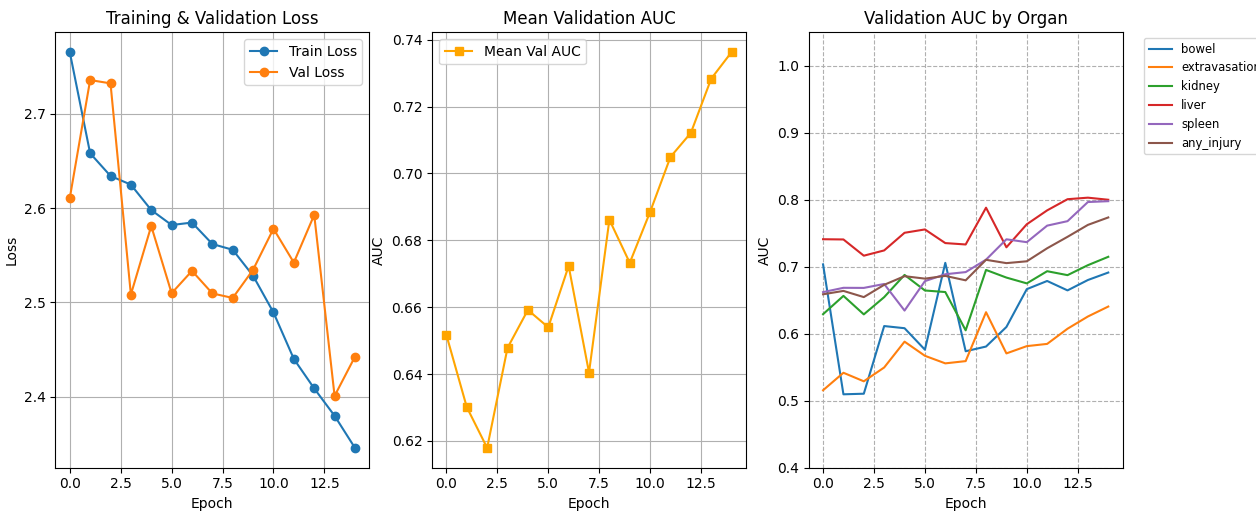
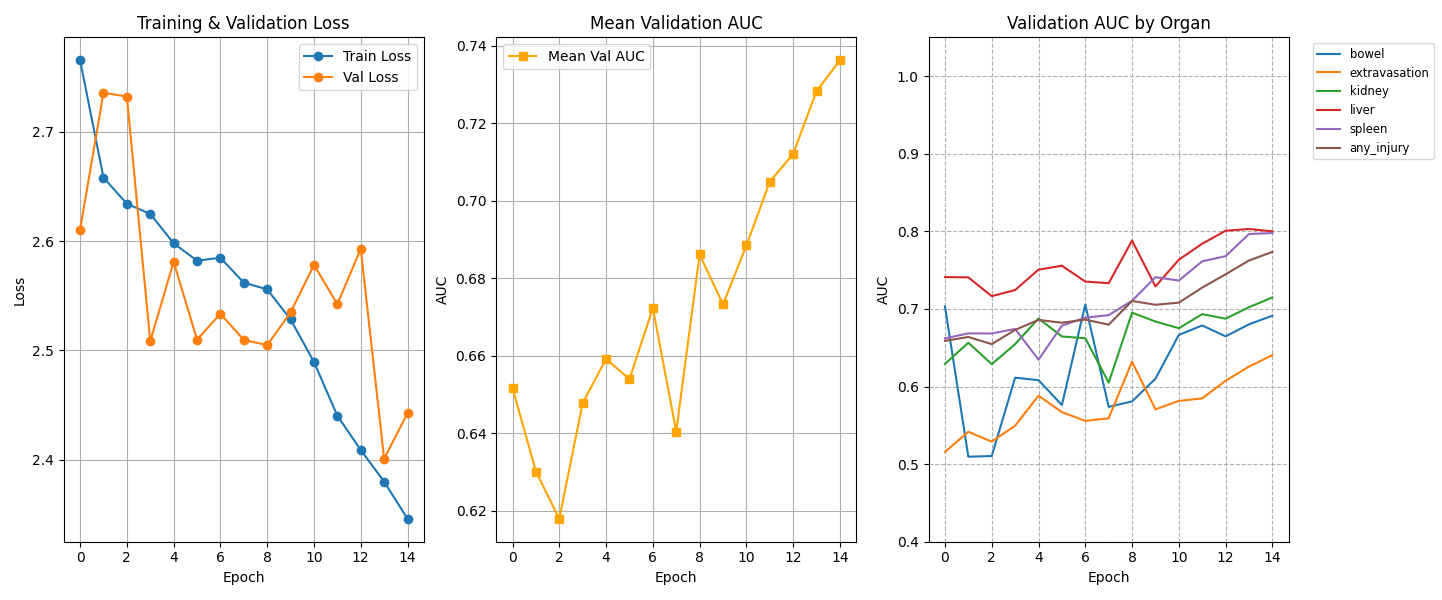
v6 추가

diff --git a/ct_show_history.py b/ct_show_history.py
@@ -2,7 +2,7 @@ import pickle
 import matplotlib.pyplot as plt
 
 # 파일 경로
-file_path = 'monai_ct_convnext_v5_1.pkl'
+file_path = 'monai_ct_convnext_v6_3.pkl'
 
 
 # 'rb' (Read Binary) 모드로 읽어야 합니다.

diff --git a/README.md b/README.md
@@ -141,3 +141,30 @@
     - 학습 코드 5 : ct-convnext-base-s128_5_2.ipynb
         - 15에포크 부터 이어서 처리
         ![alt text](ct_result_history_5_2.png)
+
+
+    - 학습 코드 6 : ct-convnext-base-s128_6.ipynb
+        - 가중치 변경
+            ```
+            criterion_dict = {
+                'bowel': nn.CrossEntropyLoss(weight=torch.tensor([1.0, 10.0]).to(DEVICE), label_smoothing=0.05),
+                'extravasation': nn.CrossEntropyLoss(weight=torch.tensor([1.0, 10.0]).to(DEVICE), label_smoothing=0.05),
+                'any_injury': nn.CrossEntropyLoss(weight=torch.tensor([1.0, 10.0]).to(DEVICE), label_smoothing=0.05),
+                'liver': nn.CrossEntropyLoss(weight=torch.tensor([1.0, 3.0, 5.0]).to(DEVICE), label_smoothing=0.05),
+                'kidney': nn.CrossEntropyLoss(weight=torch.tensor([1.0, 3.0, 5.0]).to(DEVICE), label_smoothing=0.05),
+                'spleen': nn.CrossEntropyLoss(weight=torch.tensor([1.0, 3.0, 5.0]).to(DEVICE), label_smoothing=0.05),
+            }
+            ```
+            ![alt text](ct_result_history_6.png)
+    
+    - 학습 코드 6 : ct-convnext-base-s128_6_1.ipynb
+        - 12에포크 부터 이어서 처리
+        ![alt text](ct_result_history_6_1.png)
+
+    - 학습 코드 6 : ct-convnext-base-s128_6_2.ipynb
+        - 15에포크 부터 이어서 처리
+        ![alt text](ct_result_history_6_2.png)
+
+    - 학습 코드 6 : ct-convnext-base-s128_6_3.ipynb
+        - 18에포크 부터 이어서 처리
+        ![alt text](ct_result_history_6_3.png)
